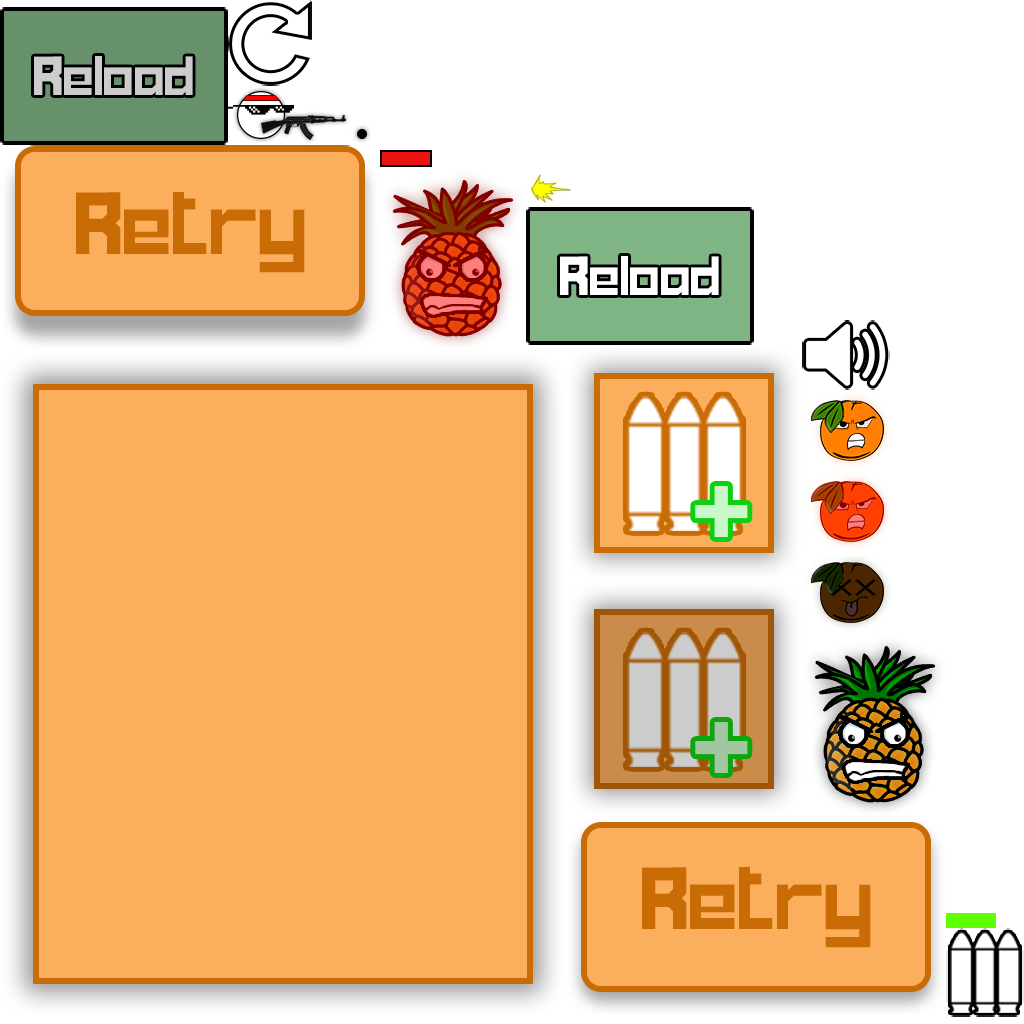
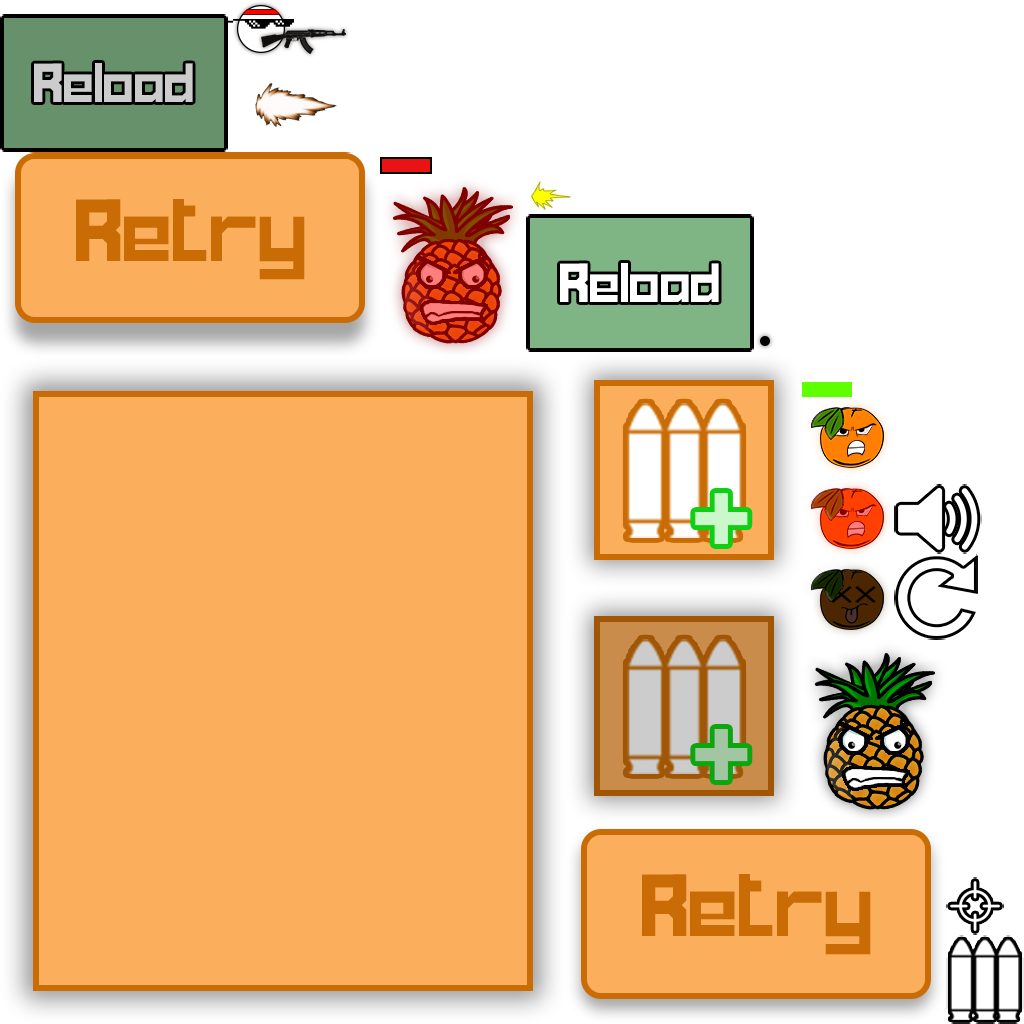
no message

diff --git a/core/src/com/nahroto/fruitdestroyer/screens/GameScreen.java b/core/src/com/nahroto/fruitdestroyer/screens/GameScreen.java
@@ -10,6 +10,7 @@ import com.badlogic.gdx.graphics.GL20;
 import com.badlogic.gdx.graphics.Texture;
 import com.badlogic.gdx.graphics.g2d.BitmapFont;
 import com.badlogic.gdx.graphics.g2d.Sprite;
+import com.badlogic.gdx.graphics.g2d.TextureAtlas;
 import com.badlogic.gdx.graphics.g2d.TextureRegion;
 import com.badlogic.gdx.graphics.glutils.ShapeRenderer;
 import com.badlogic.gdx.math.MathUtils;
@@ -72,6 +73,7 @@ public class GameScreen implements Screen
     private Font accuracyStatus;
     private Music actionMusic;
     private Sprite reloadIcon;
+    private Sprite accuracyIcon;
 
     private Sound waveSFX;
 
@@ -79,7 +81,7 @@ public class GameScreen implements Screen
 
     private ShapeRenderer shapeRenderer;
 
-    public GameScreen(final Application APP, WaveGenerator waveGenerator, Array<Enemy> totalEnemies, Array<Enemy> currentEnemies, Array<Orange> totalOranges, Array<Ananas> totalAnanases, Array<Corpse> currentCorpses, Array<Corpse> totalOrangeCorpses, Array<Corpse> totalAnanasCorpses, Array<Bullet> totalBullets, Array<Bullet> currentBullets,Array<Explosion> totalExplosions, Array<Explosion> currentExplosions, GameHud gameHud, BuyHud buyHud, Texture bg, Player player, InputMultiplexer inputMultiplexer, Font accuracyStatus, InputHandler inputHandler, Input input, CollisionHandler collisionHandler, Font ammoStatus, Music actionMusic, Sprite reloadIcon, Sound waveSFX)
+    public GameScreen(final Application APP, WaveGenerator waveGenerator, Array<Enemy> totalEnemies, Array<Enemy> currentEnemies, Array<Orange> totalOranges, Array<Ananas> totalAnanases, Array<Corpse> currentCorpses, Array<Corpse> totalOrangeCorpses, Array<Corpse> totalAnanasCorpses, Array<Bullet> totalBullets, Array<Bullet> currentBullets,Array<Explosion> totalExplosions, Array<Explosion> currentExplosions, GameHud gameHud, BuyHud buyHud, Texture bg, Player player, InputMultiplexer inputMultiplexer, Font accuracyStatus, InputHandler inputHandler, Input input, CollisionHandler collisionHandler, Font ammoStatus, Music actionMusic, Sprite reloadIcon, Sound waveSFX, Sprite accuracyIcon)
     {
         this.APP = APP;
         this.waveGenerator = waveGenerator;
@@ -107,6 +109,7 @@ public class GameScreen implements Screen
         this.currentBullets = currentBullets;
         this.totalExplosions = totalExplosions;
         this.currentExplosions = currentExplosions;
+        this.accuracyIcon = accuracyIcon;
     }
 
     @Override
@@ -128,6 +131,7 @@ public class GameScreen implements Screen
         APP.camera.update();
 
         reloadIcon.setPosition(110, 20);
+        accuracyIcon.setPosition(280, 15);
 
         player.setReloadingConfig(100);
 
@@ -220,6 +224,8 @@ public class GameScreen implements Screen
                         }
                         CameraShaker.startShaking(3f, 750);
                     }
+
+                    currentEnemies.get(i).isUsed = false;
                     currentEnemies.removeIndex(i);
                 }
             }
@@ -284,6 +290,8 @@ public class GameScreen implements Screen
         else
             buyHud.update(delta);
 
+        Logger.log(Gdx.graphics.getFramesPerSecond());
+
         // UPDATE CAMERA
         APP.camera.update();
 
@@ -330,7 +338,8 @@ public class GameScreen implements Screen
 
         // RENDER WAVE STATUS
         ammoStatus.render(APP.batch, "wave " + WaveGenerator.wave.toString(), Constants.V_WIDTH / 2 - (ammoStatus.getWidth("wave " + WaveGenerator.wave.toString()) / 2), Constants.V_HEIGHT - 30, false);
-        accuracyStatus.render(APP.batch, MathUtils.round((100 - (100 * Player.spread))) + "%", Constants.V_WIDTH / 2 - accuracyStatus.getWidth(MathUtils.round((100 - (100 * Player.spread))) + "%") / 2, 60, false);
+        accuracyStatus.render(APP.batch, MathUtils.round((100 - (100 * Player.spread))) + "%", Constants.V_WIDTH / 2 - accuracyStatus.getWidth(MathUtils.round((100 - (100 * Player.spread))) + "%") / 2 + 30, 60, false);
+        accuracyIcon.draw(APP.batch);
 
         APP.batch.end();
 

diff --git a/core/src/com/nahroto/fruitdestroyer/screens/LoadingScreen2.java b/core/src/com/nahroto/fruitdestroyer/screens/LoadingScreen2.java
@@ -42,6 +42,7 @@ public class LoadingScreen2 implements Screen
     private Array<Orange> totalOranges;
     private Array<Ananas> totalAnanases;
 
+    private Array<Corpse> totalCorpses;
     private Array<Corpse> currentCorpses;
     private Array<Corpse> totalOrangeCorpses;
     private Array<Corpse> totalAnanasCorpses;
@@ -104,6 +105,7 @@ public class LoadingScreen2 implements Screen
         totalOranges = new Array<Orange>();
         totalAnanases = new Array<Ananas>();
 
+        totalCorpses = new Array<Corpse>();
         currentCorpses = new Array<Corpse>();
         totalOrangeCorpses = new Array<Corpse>();
         totalAnanasCorpses = new Array<Corpse>();
@@ -136,8 +138,11 @@ public class LoadingScreen2 implements Screen
         totalEnemies.addAll(totalOranges);
         totalEnemies.addAll(totalAnanases);
 
+        totalCorpses.addAll(totalOrangeCorpses);
+        totalCorpses.addAll(totalAnanasCorpses);
+
         // INIT PLAYER
-        player = new Player(gameScreenAtlas.createSprite("player"), gameScreenAtlas.createSprite("flash"), totalBullets, currentBullets, APP);
+        player = new Player(gameScreenAtlas.createSprite("player"), gameScreenAtlas.createSprite("flash2"), totalBullets, currentBullets, APP);
 
         // INIT INPUT-HANDLER
         inputHandler = new InputHandler(player);
@@ -149,13 +154,13 @@ public class LoadingScreen2 implements Screen
         blackShaderTexture = new Texture("backgrounds/blackShader.png");
         blackShaderTexture.setFilter(Texture.TextureFilter.Linear, Texture.TextureFilter.Linear);
 
-        gameResetter = new GameResetter(APP, currentEnemies, currentBullets);
+        gameResetter = new GameResetter(APP, currentEnemies, currentBullets, currentCorpses, totalEnemies, totalBullets, totalCorpses);
 
         deadScreen = new DeadScreen(APP, gameScreenAtlas.findRegion("retry-button-up"), gameScreenAtlas.findRegion("retry-button-down"), gameResetter, bg, inputMultiplexer);
 
         collisionHandler = new CollisionHandler(deadScreen, currentEnemies, currentBullets);
 
-        gameScreen = new GameScreen(APP, new WaveGenerator(totalEnemies, currentEnemies, totalOranges, totalAnanases), totalEnemies, currentEnemies, totalOranges, totalAnanases, currentCorpses, totalOrangeCorpses, totalAnanasCorpses, totalBullets, currentBullets, totalExplosions, currentExplosions, new GameHud(player, APP.viewport, APP.batch, gameScreenAtlas.findRegion("reload-up"), gameScreenAtlas.findRegion("reload-down"), gameScreenAtlas.findRegion("bullet-icon"), gameScreenAtlas.findRegion("volumeButton"), actionMusic), new BuyHud(APP.viewport, APP.batch, gameScreenAtlas, blackShaderTexture), bg, player, inputMultiplexer, new Font("fonts/trompus.otf", 60, Color.WHITE, Color.BLACK, 3, true), inputHandler, new Input(), collisionHandler, ammoStatus, actionMusic, gameScreenAtlas.createSprite("reload-icon"), APP.assets.get("sounds/victory.ogg", Sound.class));
+        gameScreen = new GameScreen(APP, new WaveGenerator(totalEnemies, currentEnemies, totalOranges, totalAnanases), totalEnemies, currentEnemies, totalOranges, totalAnanases, currentCorpses, totalOrangeCorpses, totalAnanasCorpses, totalBullets, currentBullets, totalExplosions, currentExplosions, new GameHud(player, APP.viewport, APP.batch, gameScreenAtlas.findRegion("reload-up"), gameScreenAtlas.findRegion("reload-down"), gameScreenAtlas.findRegion("bullet-icon"), gameScreenAtlas.findRegion("volumeButton"), actionMusic), new BuyHud(APP.viewport, APP.batch, gameScreenAtlas, blackShaderTexture), bg, player, inputMultiplexer, new Font("fonts/trompus.otf", 50, Color.WHITE, Color.BLACK, 3, true), inputHandler, new Input(), collisionHandler, ammoStatus, actionMusic, gameScreenAtlas.createSprite("reload-icon"), APP.assets.get("sounds/victory.ogg", Sound.class), gameScreenAtlas.createSprite("accuracy-icon"));
 
         gameResetter.setGameScreen(gameScreen);
     }

diff --git a/core/src/com/nahroto/fruitdestroyer/helpers/GameResetter.java b/core/src/com/nahroto/fruitdestroyer/helpers/GameResetter.java
@@ -6,6 +6,7 @@ import com.nahroto.fruitdestroyer.Application;
 import com.nahroto.fruitdestroyer.Constants;
 import com.nahroto.fruitdestroyer.WaveGenerator;
 import com.nahroto.fruitdestroyer.entities.Bullet;
+import com.nahroto.fruitdestroyer.entities.Corpse;
 import com.nahroto.fruitdestroyer.entities.Player;
 import com.nahroto.fruitdestroyer.entities.enemies.Enemy;
 import com.nahroto.fruitdestroyer.screens.GameScreen;
@@ -17,21 +18,45 @@ public class GameResetter
 
     private Array<Enemy> currentEnemies;
     private Array<Bullet> currentBullets;
+    private Array<Corpse> currentCorpses;
 
-    public GameResetter(final Application APP, Array<Enemy> currentEnemies, Array<Bullet> currentBullets)
+    private Array<Enemy> totalEnemies;
+    private Array<Bullet> totalBullets;
+    private Array<Corpse> totalCorpses;
+
+    public GameResetter(final Application APP, Array<Enemy> currentEnemies, Array<Bullet> currentBullets, Array<Corpse> currentCorpses, Array<Enemy> totalEnemies, Array<Bullet> totalBullets, Array<Corpse> totalCorpses)
     {
         this.APP = APP;
         this.currentEnemies= currentEnemies;
         this.currentBullets = currentBullets;
+        this.currentCorpses = currentCorpses;
+        this.totalEnemies = totalEnemies;
+        this.totalBullets = totalBullets;
+        this.totalCorpses = totalCorpses;
     }
 
     public void newGame()
     {
+        for (Enemy enemy : totalEnemies)
+            enemy.isUsed = false;
+
+        for (Bullet bullet : totalBullets)
+            bullet.isUsed = false;
+
+        for (Corpse corpse : totalCorpses)
+        {
+            corpse.isBusy = false;
+            corpse.isDone = false;
+        }
+
         // CLEAR ALL ENEMIES
         currentEnemies.clear();
 
         // CLEAR ALL BULLETS
         currentBullets.clear();
+
+        // CLEAR ALL CORPSES
+        currentCorpses.clear();
 
         // RESET WAVE
         WaveGenerator.wave = 1;

diff --git a/core/src/com/nahroto/fruitdestroyer/entities/Player.java b/core/src/com/nahroto/fruitdestroyer/entities/Player.java
@@ -83,7 +83,7 @@ public class Player
         this.sprite.setOrigin(32, 28);
 
         this.flashSprite = flashSprite;
-        this.flashSprite.setOrigin(3, 18);
+        this.flashSprite.setOrigin(2, 45);
 
         vertices = new float[]{
                 0, 0,
@@ -128,7 +128,7 @@ public class Player
             flashNeeded = false;
 
         if (flashNeeded)
-            flashSprite.setPosition(Constants.V_WIDTH / 2 + flashPositionX, Constants.V_HEIGHT / 2 + flashPositionY - (35 / 2));
+            flashSprite.setPosition(Constants.V_WIDTH / 2 + flashPositionX, Constants.V_HEIGHT / 2 + flashPositionY - (91 / 2));
 
         if (reloading && System.currentTimeMillis() - timeSinceReload > reloadTime)
         {
@@ -202,11 +202,11 @@ public class Player
                         float bulletPositionX = (MathUtils.cos(angle * MathUtils.degreesToRadians) * 85);
                         float bulletPositionY = (MathUtils.sin(angle * MathUtils.degreesToRadians) * 85);
 
-                        flashPositionX = (MathUtils.cos(angle * MathUtils.degreesToRadians) * 80);
-                        flashPositionY = (MathUtils.sin(angle * MathUtils.degreesToRadians) * 80);
+                        flashPositionX = (MathUtils.cos(angle * MathUtils.degreesToRadians) * 60);
+                        flashPositionY = (MathUtils.sin(angle * MathUtils.degreesToRadians) * 60);
 
                         flashSprite.setRotation(angle);
-                        flashSprite.setPosition(Constants.V_WIDTH / 2 + flashPositionX - 3, Constants.V_HEIGHT / 2 + flashPositionY - (35 / 2));
+                        flashSprite.setPosition(Constants.V_WIDTH / 2 + flashPositionX - 3, Constants.V_HEIGHT / 2 + flashPositionY - (91 / 2));
 
                         // OFFSET PLAYER TO GIVE KICK
                         offsetBack();

diff --git a/core/src/com/nahroto/fruitdestroyer/WaveGenerator.java b/core/src/com/nahroto/fruitdestroyer/WaveGenerator.java
@@ -9,8 +9,8 @@ import com.nahroto.fruitdestroyer.entities.enemies.Orange;
 
 public class WaveGenerator
 {
-    private final int ANANAS_MINIMUM_WAVE = 1;
-    private final float ORANGE_MULTIPLIER = 1f;
+    private final int ANANAS_MINIMUM_WAVE = 5;
+    private final float ORANGE_MULTIPLIER = 1.2f;
     private final float ANANAS_MULTIPLIER = 0.5f;
 
     private Array<Enemy> totalEnemies;
@@ -37,15 +37,16 @@ public class WaveGenerator
     public void startNewWave()
     {
         Logger.log("NEW WAVE STARTED");
+        Logger.log("WAVE: " + wave);
 
         startTime = System.currentTimeMillis();
 
         restoreAllEnemies();
 
         delayTime(0f);
-            addOranges(5);
+            addOranges(MathUtils.round(wave * ORANGE_MULTIPLIER));
             if (wave >= ANANAS_MINIMUM_WAVE)
-                addAnanases(5);
+                addAnanases(MathUtils.round(wave * ANANAS_MULTIPLIER));
     }
 
     public void update()

diff --git a/core/src/com/nahroto/fruitdestroyer/entities/enemies/Enemy.java b/core/src/com/nahroto/fruitdestroyer/entities/enemies/Enemy.java
@@ -20,7 +20,7 @@ import com.nahroto.fruitdestroyer.Logger;
 
 public class Enemy
 {
-    protected static final int BASEVELOCITY = 30;
+    protected static final int BASEVELOCITY = 50;
     protected float velocityMultiplier;
     protected boolean explodable;
 

diff --git a/core/src/com/nahroto/fruitdestroyer/RandomPositioner.java b/core/src/com/nahroto/fruitdestroyer/RandomPositioner.java
@@ -25,7 +25,6 @@ public class RandomPositioner
         else
             randomY = MathUtils.random(Constants.V_HEIGHT + MIN_DISTANCE, Constants.V_HEIGHT + MAX_DISTANCE);
 
-
         randomPosition.set(randomX, randomY);
 
         return randomPosition;

diff --git a/core/src/com/nahroto/fruitdestroyer/entities/Corpse.java b/core/src/com/nahroto/fruitdestroyer/entities/Corpse.java
@@ -8,7 +8,7 @@ import com.badlogic.gdx.utils.Array;
 
 public class Corpse
 {
-    private static final float DEAD_TIME = 5f;
+    private static final float DEAD_TIME = 10f;
 
     private Sprite sprite;
 
